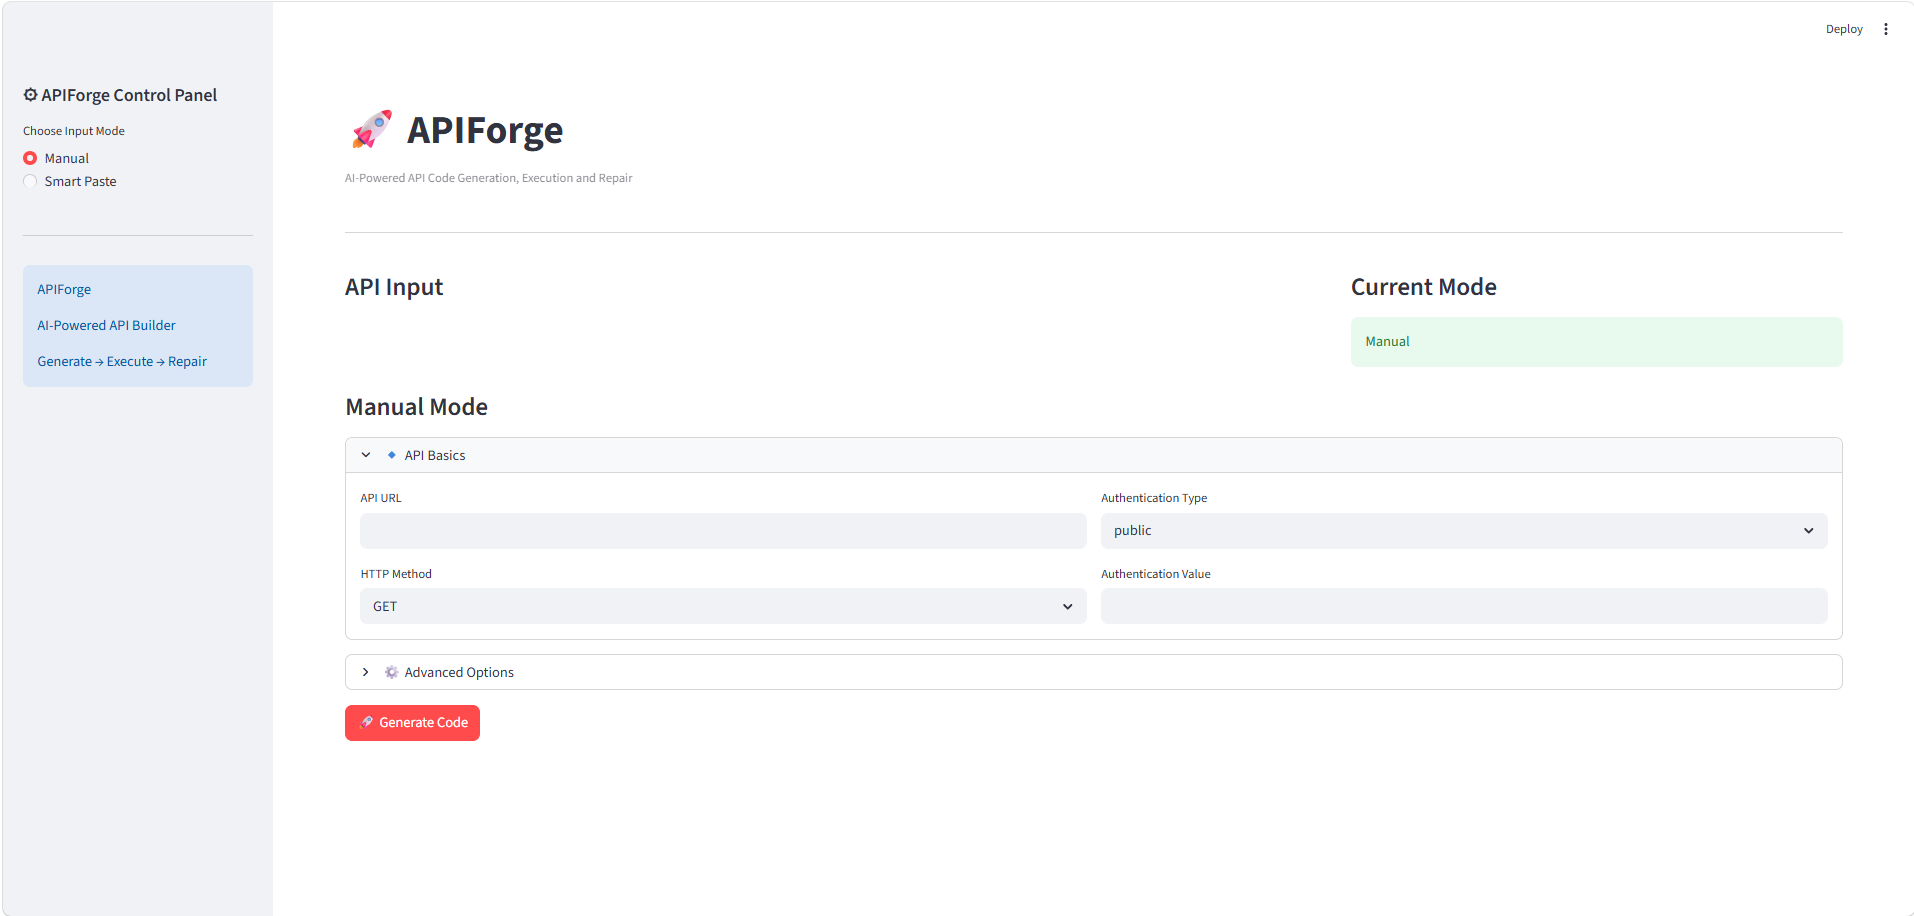
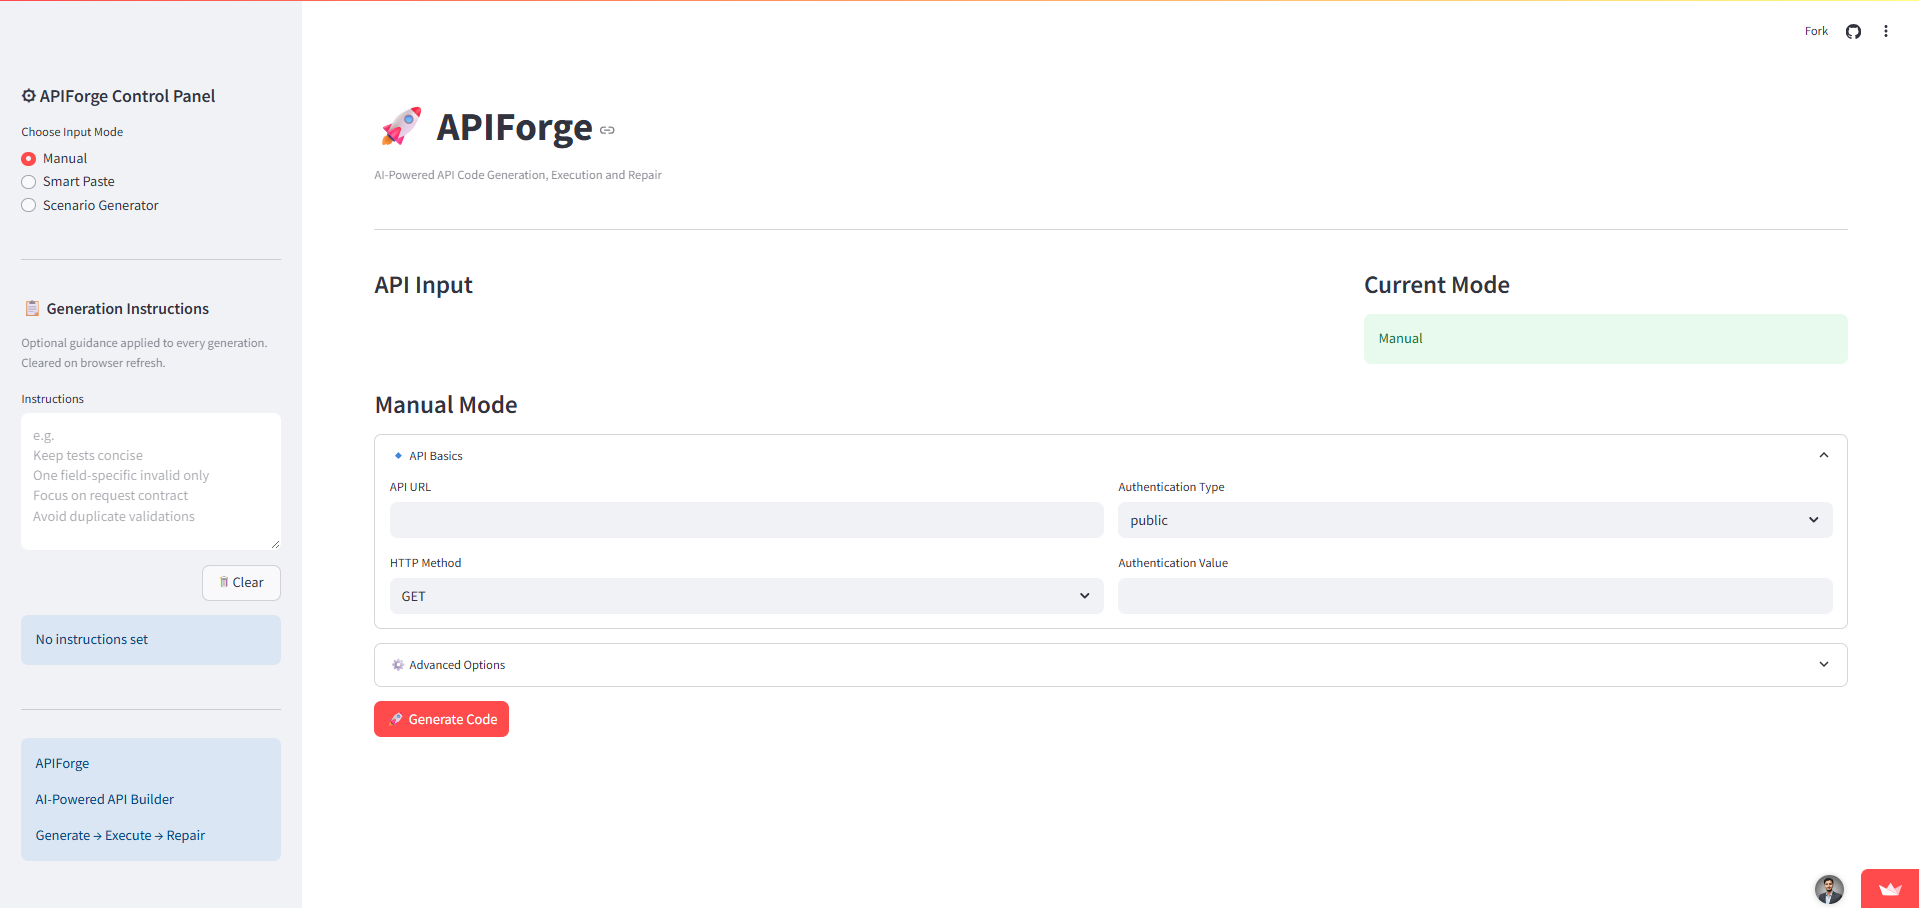
Modified readme to reflect V2 completly

diff --git a/README.md b/README.md
@@ -1,10 +1,10 @@
 # 🚀 APIForge
 
-### AI-Powered API Code Generation, Execution and Repair
+### AI-Powered API Code Generation, Execution, Repair and Test Scenario Generation
 
-APIForge is an AI-powered developer tool that generates, executes, classifies and repairs API integration code using natural inputs or curl commands.
+APIForge is an AI-powered developer tool that generates, executes, classifies and repairs API integration code — and automatically generates professional Cypress and Python test scenarios from any API input.
 
-Built to simplify API integration workflows through intelligent code generation and agent-assisted debugging.
+Built to simplify API integration and testing workflows through intelligent code generation and agent-assisted debugging.
 
 🌐 **Live App:** https://apiforge.streamlit.app
 
@@ -24,13 +24,23 @@ Built to simplify API integration workflows through intelligent code generation 
 - Download generated and repaired code
 - Session-safe repair history
 
+## Scenario Generator (New)
+
+- Generate Cypress or Python test scenarios from any API input
+- Accepts raw text, curl commands, plain English, mixed language
+- Intelligent field type detection and analysis
+- Auto-detects auth, endpoint, method and body fields
+- Scoped fixture data pattern (`data.[resource].field`)
+- Client instructions support for custom test style
+- Download generated scenarios as `.cy.js` or `.py`
+
 ---
 
 # 🧠 Agent Intelligence
 
 APIForge is more than a code generator.
 
-It includes agentic capabilities such as:
+It includes agentic capabilities:
 
 - Error classification
 - Session-based repair memory
@@ -38,15 +48,21 @@ It includes agentic capabilities such as:
 - Privacy-safe repair tracking
 - Technical error inspection
 - Agent-assisted debugging workflow
+- Universal API input parser
+- Semantic field type analysis
+- Instruction-aware scenario generation
 
 ---
 
 # 🎨 UI Features
 
 - Professional Streamlit interface
-- Sidebar controls
+- Sidebar controls with client instruction panel
 - Structured workflow sections
 - Generated → Execute → Repair flow
+- Scenario Generator mode
+- Raw input and structured input modes
+- Cypress and Python output toggle
 - Expandable input sections
 - Clean execution UX
 - Download buttons
@@ -71,6 +87,17 @@ Input
 → Classify Error
 → Repair
 → Session Repair History
+```
+
+Scenario Generator workflow:
+
+```text
+Raw Input (any format)
+→ Python Parser (extracts endpoint, method, auth, fields)
+→ Field Analysis (semantic type classification)
+→ Client Instructions (applied if set)
+→ Gemini Scenario Generation
+→ Download as .cy.js or .py
 ```
 
 ---
@@ -131,23 +158,17 @@ APIForge/
 git clone https://github.com/lakeshkumarkhatri/APIForge.git
 ```
 
----
-
 ## 2. Move Into Project
 
 ```bash
 cd APIForge
 ```
 
----
-
 ## 3. Create Virtual Environment
 
 ```bash
 python -m venv venv
 ```
-
----
 
 ## 4. Activate Virtual Environment
 
@@ -163,27 +184,19 @@ venv\Scripts\activate
 source venv/bin/activate
 ```
 
----
-
 ## 5. Install Dependencies
 
 ```bash
 pip install -r requirements.txt
 ```
 
----
-
 ## 6. Add Environment Variables
 
-Create a `.env` file.
-
-Add:
+Create a `.env` file and add:
 
 ```env
 GOOGLE_API_KEY=YOUR_GEMINI_API_KEY
 ```
-
----
 
 ## 7. Run APIForge
 
@@ -205,17 +218,13 @@ python main.py
 
 APIForge is deployed on Streamlit Cloud.
 
-Live URL:
-
-https://apiforge.streamlit.app
+Live URL: https://apiforge.streamlit.app
 
 ---
 
 # 🧪 Supported Workflows
 
 ## Manual Mode
-
-APIForge supports:
 
 - API URL
 - HTTP Method
@@ -225,8 +234,6 @@ APIForge supports:
 - Request Body
 - Response Format
 - API Notes
-
----
 
 ## Smart Paste Mode
 
@@ -247,6 +254,57 @@ curl --request GET \
 --header "Accept: application/json"
 ```
 
+## Scenario Generator Mode
+
+Paste anything — API docs, curl, plain English, mixed language — and APIForge generates complete test scenarios.
+
+Example input formats:
+
+```text
+POST /api/orders | auth
+Request body: { "product_id": "string", "quantity": 0 }
+```
+
+```bash
+curl -X POST https://api.example.com/users/register \
+-d '{"email":"test@example.com","password":"pass123"}'
+```
+
+```text
+// ye API karna hai login ke liye
+POST /auth/login
+body: email aur password chahiye
+```
+
+Generated output includes:
+
+- Helper function with `overrideBody` pattern
+- Scoped fixture data access (`data.[resource].field`)
+- Valid request scenario
+- Empty fields scenario
+- Null values scenario
+- Missing body scenario
+- Missing required field scenario
+- Field-specific scenarios (email, enum, numeric, date, file, monetary)
+- No auth scenario
+
+---
+
+# 📋 Client Instructions Panel
+
+Set generation guidance in the sidebar that applies to every scenario generated.
+
+Examples:
+
+```text
+Keep tests concise
+One field-specific invalid only
+Focus on request contract
+Avoid duplicate validations
+```
+
+Instructions are session-based and cleared on browser refresh.
+
 ---
 
 # 🔧 Error Intelligence
@@ -254,7 +312,7 @@ curl --request GET \
 APIForge classifies execution failures into readable categories.
 
 | Error Type | Classification |
-|------------|---------------|
+|---|---|
 | DNS Failure | 🌐 Connection Error |
 | Invalid Token | 🔐 Unauthorized |
 | Timeout | ⏳ Timeout Error |
@@ -276,14 +334,24 @@ Run
 → Re-run
 ```
 
-Repair history is:
+Repair history is session-based, privacy-safe, and cleared after session ends.
 
-- Session-based
-- Privacy-safe
-- Non-persistent across users
-- Session-only storage
-- No cross-user exposure
-- Memory cleared after session ends
+---
+
+# 🧬 Scenario Generation Intelligence
+
+APIForge analyses each field in the request body semantically:
+
+| Field Type | Examples | Test Generated |
+|---|---|---|
+| Email | email, user_email | Invalid format |
+| Password | password, passcode | Weak password |
+| Monetary | amount, price, total, fee | Zero + negative |
+| File | file_name, file_size, file_type | Invalid MIME + oversized + zero |
+| Enum | status, type, role, ticket_type | Invalid enum value |
+| Numeric | quantity, age, count, attendee_count | Negative value |
+| Date | start_date, check_in_date | Invalid format |
+| ID | event_id, product_id, user_id | Non-existent ID |
 
 ---
 
@@ -297,6 +365,12 @@ Repair history is:
 
 ### Smart Paste Mode
 ![Smart Paste](Screenshots/Smart%20Paste%20Mode.png)
+
+### Scenario Generator
+![Scenario Generator](Screenshots/Scenario%20Generator.png)
+
+### Client Instructions Panel
+![Client Instructions](Screenshots/Client%20Instructions.png)
 
 ### Generated Code
 ![Generated Code](Screenshots/Generated%20Code.png)
@@ -314,24 +388,38 @@ Repair history is:
 
 # 🛣 Roadmap
 
-## Current
+## V1 — Completed
 
-✅ Code generation  
-✅ Execution  
-✅ Repair agent  
-✅ Error classification  
-✅ Session repair history  
-✅ Smart Paste  
-✅ UI polish  
-✅ GitHub integration  
-✅ Live Streamlit deployment  
+✅ Code generation
+✅ Execution
+✅ Repair agent
+✅ Error classification
+✅ Session repair history
+✅ Smart Paste
+✅ UI polish
+✅ GitHub integration
+✅ Live Streamlit deployment
 
-## Planned
+## V2 — Completed
 
-- Auto-repair loop (V2)
+✅ Scenario Generator mode
+✅ Cypress test generation
+✅ Python test generation
+✅ Universal input parser
+✅ Semantic field type analysis
+✅ Scoped fixture data pattern
+✅ Client instructions panel
+✅ Auth-aware scenario generation
+✅ Instruction-compliant output
+
+## V3 — Planned
+
+- Auto-repair loop
 - Smarter repair strategies
 - Multi-model support
 - Enhanced agent workflows
+- Scenario history and versioning
+- Team collaboration features
 
 ---
 
@@ -339,18 +427,16 @@ Repair history is:
 
 Contributions, improvements and feedback are welcome.
 
-1. Fork repository  
-2. Create feature branch  
-3. Commit changes  
-4. Open pull request  
+1. Fork repository
+2. Create feature branch
+3. Commit changes
+4. Open pull request
 
 ---
 
 # 📜 License
 
-MIT License
-
-See `LICENSE` file for details.
+MIT License — see `LICENSE` file for details.
 
 ---
 
